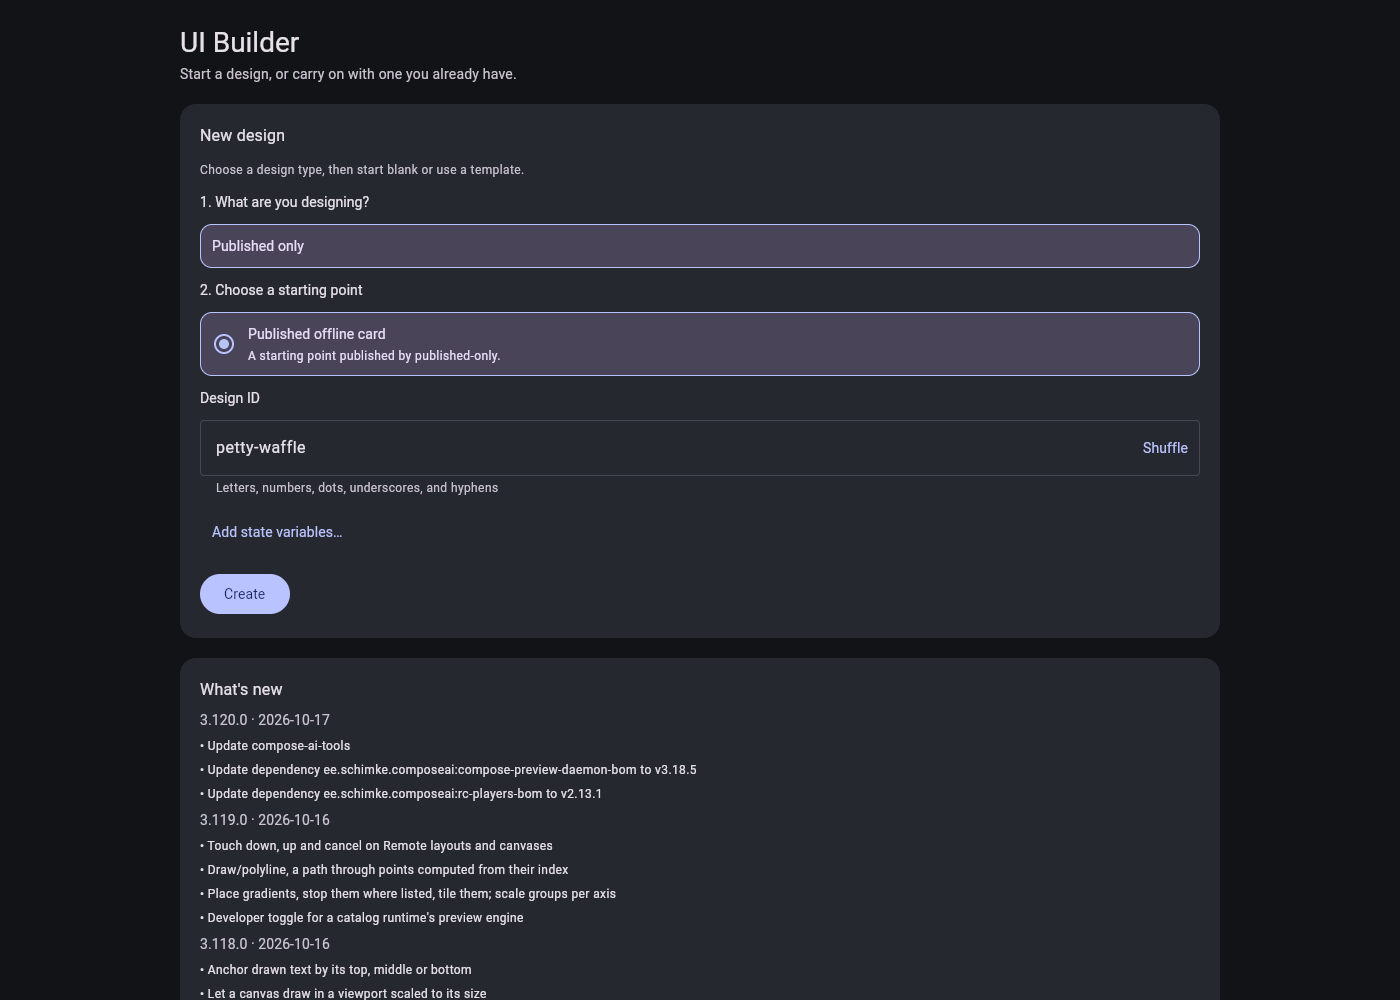
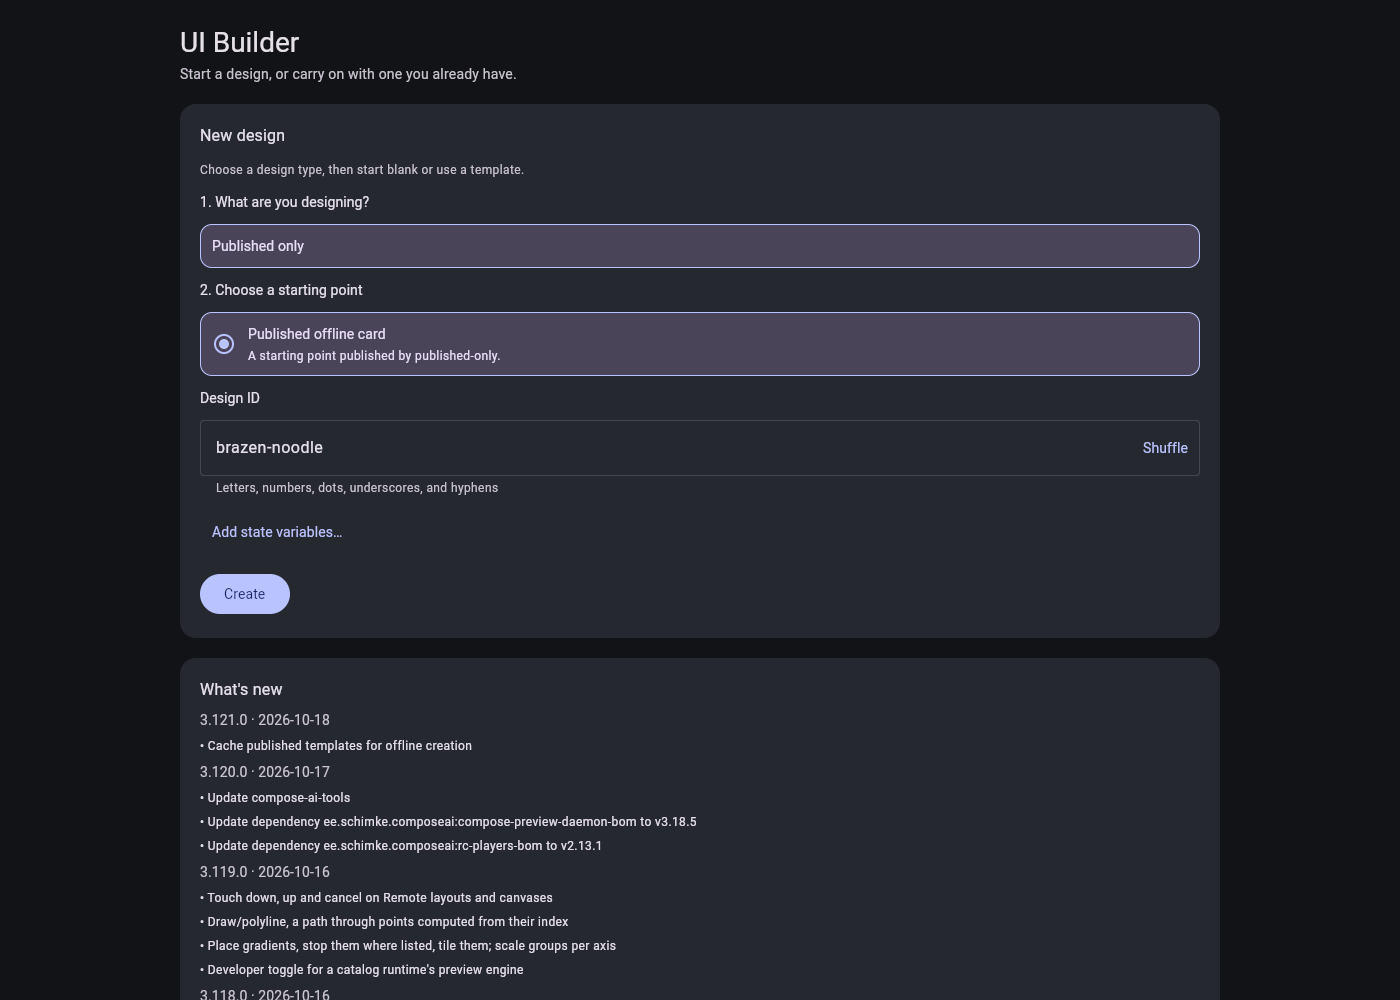
fix(editor): retain offline worker and restore cleared caches

Changed region(s): [[0.1229, 0.744, 0.4914, 1.0], [0.1536, 0.434, 0.2457, 0.465]]

diff --git a/ui-builder/src/jvmTest/kotlin/ee/schimke/composeai/uibuilder/CommentNotificationsControllerTest.kt b/ui-builder/src/jvmTest/kotlin/ee/schimke/composeai/uibuilder/CommentNotificationsControllerTest.kt
@@ -323,7 +323,7 @@ class CommentNotificationsControllerTest {
   }
 
   @Test
-  fun turningOffDeletesTheSubscriptionAndTheWorker() = runBlocking {
+  fun turningOffDeletesTheSubscriptionAndRetainsTheSharedWorker() = runBlocking {
     val host =
       FakeHost(permission = PushPermission.Granted, subscription = SUBSCRIPTION).apply {
         respond(
@@ -342,8 +342,28 @@ class CommentNotificationsControllerTest {
       host.bodies.getValue("DELETE /api/push/subscribe").single(),
     )
     assertNull(host.subscription)
-    assertTrue("unregisterWorker" in host.calls)
+    assertFalse("unregisterWorker" in host.calls)
     assertEquals(0, host.permissionRequests, "turning off never prompts")
+  }
+
+  @Test
+  fun unauthorizedTurnOffUnsubscribesAndRetainsTheSharedWorker() = runBlocking {
+    val host =
+      FakeHost(permission = PushPermission.Granted, subscription = SUBSCRIPTION).apply {
+        respond(
+          "POST",
+          "/api/push/subscribe",
+          201,
+          """{"kinds":["mentions","replies"],"devices":1}""",
+        )
+        respond("DELETE", "/api/push/subscribe", 401)
+      }
+    val controller = CommentNotificationsController(host)
+    controller.load()
+    controller.toggle()
+    assertEquals(CommentNotificationsState.Hidden, controller.state.value)
+    assertNull(host.subscription)
+    assertFalse("unregisterWorker" in host.calls)
   }
 
   @Test
@@ -412,7 +432,7 @@ class CommentNotificationsControllerTest {
     controller.toggle()
     assertEquals(CommentNotificationsState.Hidden, controller.state.value)
     assertNull(host.subscription, "the previous account's subscription must not keep delivering")
-    assertTrue("unregisterWorker" in host.calls)
+    assertFalse("unregisterWorker" in host.calls)
   }
 
   @Test

diff --git a/ui-builder/src/wasmJsMain/resources/ui-builder-sw.js b/ui-builder/src/wasmJsMain/resources/ui-builder-sw.js
@@ -28,6 +28,7 @@ const SCOPE = new URL(self.registration.scope);
 // The shell is cached under the scope root whatever design it was fetched for: it is the same app
 // for every design, which reads its design id back out of the address bar.
 const SHELL_KEY = new URL('./', SCOPE).href;
+const PRECACHE_KEY = new URL('__ui-builder-precache-complete', SCOPE).href;
 // Supplied by a root host's shared notification worker, never inferred from a broad scope.
 const ROOT_CONFIG = self.composeUiBuilderOffline;
 const ASSET_ROOT = ROOT_CONFIG ? new URL(ROOT_CONFIG.assetBase, SCOPE) : SCOPE;
@@ -57,6 +58,18 @@ self.addEventListener('activate', (event) => {
 // The page asks for this when a person presses Reload on the update notice.
 self.addEventListener('message', (event) => {
   if (event.data && event.data.type === 'SKIP_WAITING') self.skipWaiting();
+  if (event.data?.type === 'ENSURE_PRECACHE') {
+    event.waitUntil((async () => {
+      try {
+        const cache = await caches.open(CACHE);
+        if (!await cache.match(PRECACHE_KEY)) await precache();
+        event.ports?.[0]?.postMessage({ ok: true });
+      } catch (_) {
+        // Offline visits may use an existing shell even when a refresh cannot finish.
+        event.ports?.[0]?.postMessage({ ok: false });
+      }
+    })());
+  }
 });
 
 self.addEventListener('fetch', (event) => {
@@ -131,6 +144,7 @@ async function precache() {
     await cache.put(url, response);
   }
   await cache.put(SHELL_KEY, shellResponse);
+  await cache.put(PRECACHE_KEY, new Response('complete'));
 }
 
 /** Every same-origin file the shell names: `src`/`href` attributes and import-map targets. */

diff --git a/ui-builder/src/commonMain/kotlin/ee/schimke/composeai/uibuilder/editor/CommentNotifications.kt b/ui-builder/src/commonMain/kotlin/ee/schimke/composeai/uibuilder/editor/CommentNotifications.kt
@@ -142,7 +142,9 @@ interface CommentNotificationHost {
   /** Drops this browser's subscription, if it has one. Never throws. */
   suspend fun unsubscribe()
 
-  /** Unregisters the push worker, if it is registered. Never throws. */
+  /**
+   * Legacy host hook. Notification cleanup must retain registrations shared with offline loading.
+   */
   suspend fun unregisterWorker()
 
   /** A same-origin JSON request to the host's push routes. Never throws: status 0 instead. */
@@ -366,14 +368,12 @@ class CommentNotificationsController(private val host: CommentNotificationHost) 
         )
       if (response.status == 401) {
         host.unsubscribe()
-        host.unregisterWorker()
         bound = false
         return CommentNotificationsState.Hidden
       }
       // 404 is "not subscribed", which is where this is going anyway.
       host.unsubscribe()
     }
-    host.unregisterWorker()
     bound = false
     kinds = emptySet()
     return CommentNotificationsState.Toggle(on = false)
@@ -390,7 +390,6 @@ class CommentNotificationsController(private val host: CommentNotificationHost) 
       // Signed out since the subscription was bound: it must not keep delivering the previous
       // account's notifications to this browser, as every other 401 path already ensures.
       host.unsubscribe()
-      host.unregisterWorker()
       bound = false
       kinds = emptySet()
       return CommentNotificationsState.Hidden

diff --git a/ui-builder/src/wasmJsMain/resources/ui-builder-boot.js b/ui-builder/src/wasmJsMain/resources/ui-builder-boot.js
@@ -140,6 +140,7 @@
           (names || []).filter((n) => n.startsWith('ui-builder-shell-')).map((n) => caches.delete(n)),
         ),
       )
+      .then(() => { document.documentElement.dataset.uiBuilderOffline = 'disabled'; })
       .catch((error) => console.warn('ui-builder: could not remove the offline worker', error));
     return;
   }
@@ -198,6 +199,16 @@
       .register(script, { scope, updateViaCache: 'none' })
       .then((registration) => {
         document.documentElement.dataset.uiBuilderOffline = 'registered';
+        // A retained root worker does not reinstall after sw=off cleared its caches.
+        // Ask it to restore the complete bundle before the next cold offline visit.
+        if (rooted && registration.active) {
+          const channel = new MessageChannel();
+          channel.port1.onmessage = (event) => {
+            document.documentElement.dataset.uiBuilderPrecached = event.data?.ok ? 'ready' : 'failed';
+            channel.port1.close();
+          };
+          registration.active.postMessage({ type: 'ENSURE_PRECACHE' }, [channel.port2]);
+        }
         offerUpdate(registration);
         registration.addEventListener('updatefound', () => {
           const incoming = registration.installing;

diff --git a/docs/evidence/root-host-offline/README.md b/docs/evidence/root-host-offline/README.md
@@ -4,4 +4,6 @@ Captured in Chromium on 2026-10-18. Before: the released 3.121.0 boot script on 
 
 The published-only fixture has one empty column, intentionally proving the document came from the publication rather than a built-in factory. The screenshot shows the browser-local offline status. No native rendering or production deployment is claimed.
 
-Run the published lane of scripts/ui-builder-web-smoke/smoke.mjs against the built distribution to exercise both prefixed and root hosts. The root helper models the server contract; compose-preview-server's ServeUiBuilderHostRootTest checks the actual wrapper, capability gate, route exclusions and ETag. Production cold-offline verification remains a release/deployment gate before compatibility retirement.
+Run the published lane of scripts/ui-builder-web-smoke/smoke.mjs against the built distribution to exercise both prefixed and root hosts. The root helper models the server contract; compose-preview-server's ServeUiBuilderHostRootTest checks the actual wrapper, capability gate, route exclusions and ETag. The updated root smoke also clears editor caches with `sw=off`, re-enables offline loading on the unchanged registration, waits for full bundle restoration, then creates the document in a fresh offline tab. Notification cleanup is covered by the server frontend and builder controller regression tests.
+
+Production cold-offline verification remains a release/deployment gate before compatibility retirement.

diff --git a/docs/design/UI_BUILDER_LOCAL_STORAGE.md b/docs/design/UI_BUILDER_LOCAL_STORAGE.md
@@ -257,6 +257,11 @@ and projects indexes, and per-design management pages. Bundle assets stay under 
 only explicitly precached bundle JSON fixtures have aliases at the page root. The host includes
 the editor bundle digest in the wrapper's bytes and computes its ETag from the whole response,
 so frontend-only updates and changes to reserved routes both install the updated worker.
+Turning notifications off or receiving an authentication refusal only unsubscribes from push;
+notification cleanup retains this registration. After `?sw=off`, a later opt-in sends
+`ENSURE_PRECACHE` to the retained worker. A completion marker distinguishes a complete bundle
+from opportunistically cached resources, so the worker restores missing caches without
+redownloading a complete bundle on every visit.
 
 **What it caches, and how:**
 
